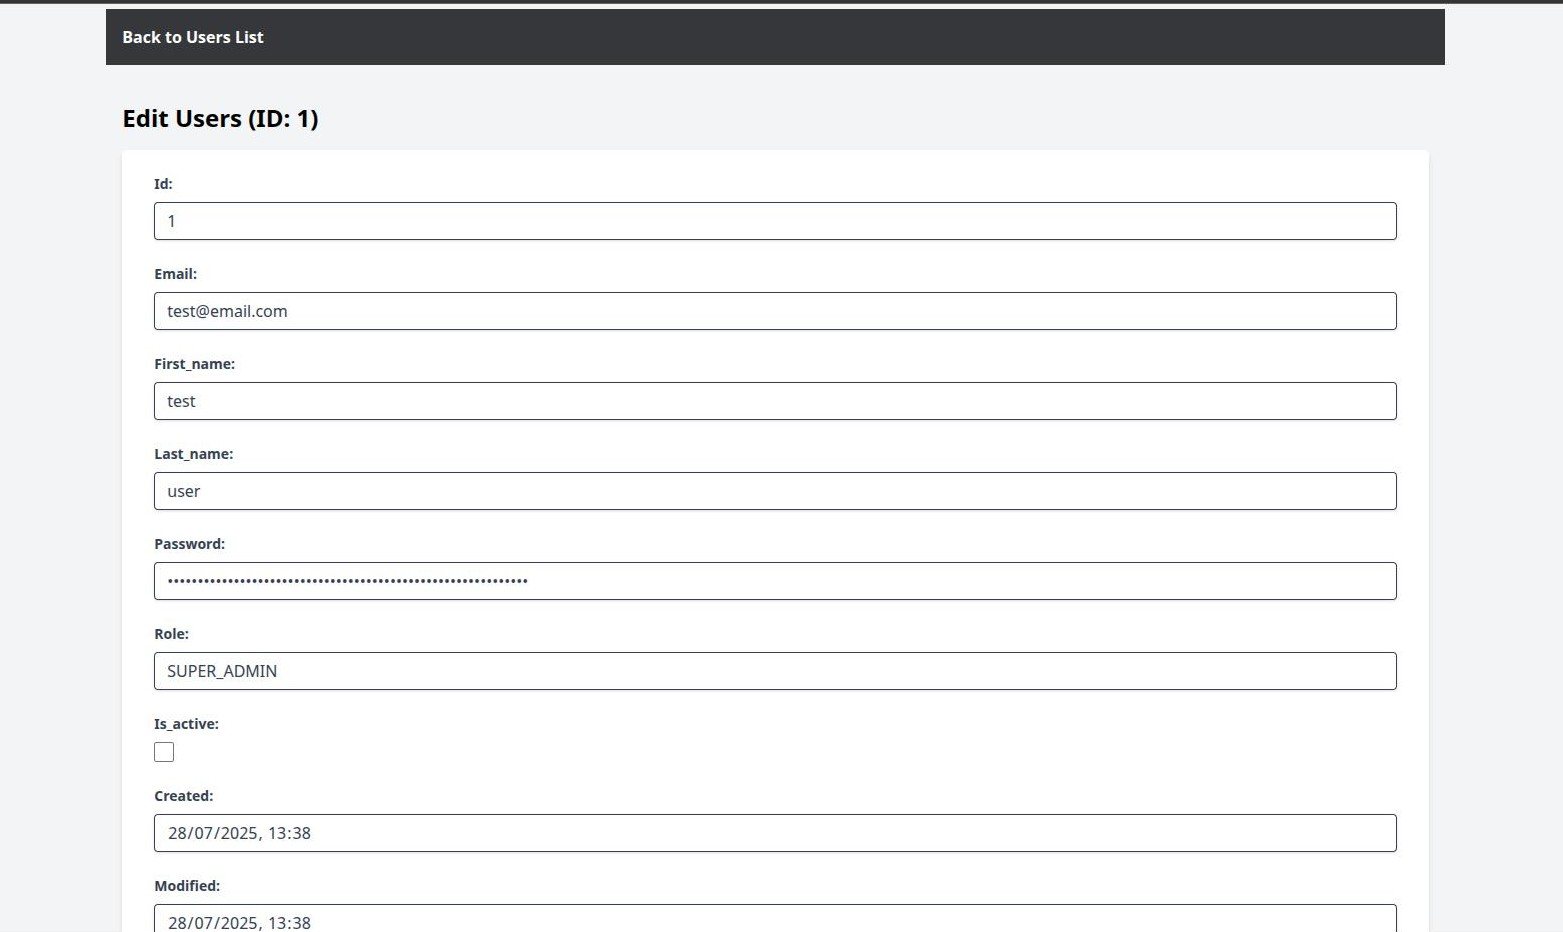
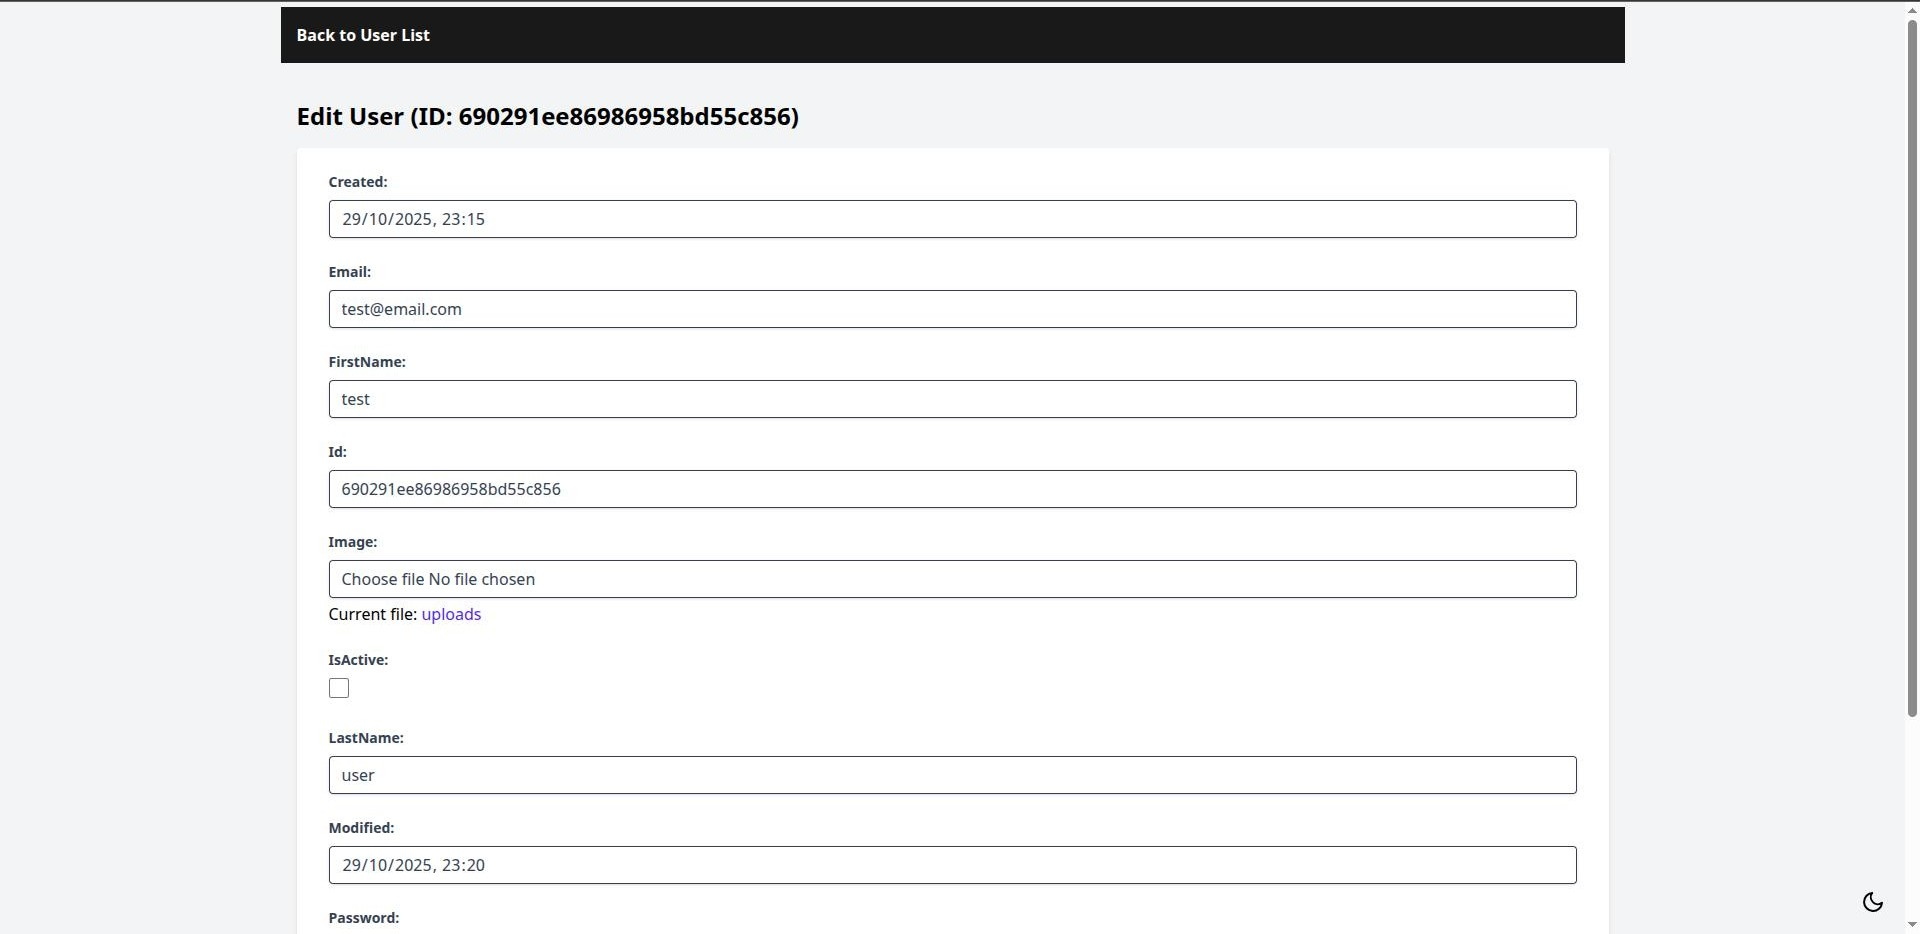
docs: update documentation

diff --git a/docs/installation.rst b/docs/installation.rst
@@ -23,7 +23,7 @@ The recommended way to install Ktor Panel is via Maven Central. This ensures you
 .. code:: kotlin
 
    dependencies {
-       implementation("xyz.daimones:ktor-panel:0.3.2")
+       implementation("xyz.daimones:ktor-panel:0.4.0")
    }
 
 **Maven:**
@@ -33,7 +33,7 @@ The recommended way to install Ktor Panel is via Maven Central. This ensures you
    <dependency>
        <groupId>xyz.daimones</groupId>
        <artifactId>ktor-panel</artifactId>
-       <version>0.3.2</version>
+       <version>0.4.0</version>
    </dependency>
 
 No additional repository configuration is needed; Maven Central is included by default.
@@ -43,14 +43,14 @@ Install from GitHub Release
 If you want the latest features or experimental builds, you can download binaries directly from GitHub Releases.
 
 1. Visit the `Releases <https://github.com/believemanasseh/ktor-panel/releases>`__ page.
-2. Download the desired JAR file (e.g., ``ktor-panel-0.3.2.jar``).
+2. Download the desired JAR file (e.g., ``ktor-panel-0.4.0.jar``).
 3. Place the JAR in your project's ``libs/`` directory.
 4. Add it as a local dependency:
 
 .. code:: kotlin
 
    dependencies {
-       implementation(files("libs/ktor-panel-0.3.2.jar"))
+       implementation(files("libs/ktor-panel-0.4.0.jar"))
    }
 
 Install from Source (Advanced)
@@ -77,7 +77,7 @@ Verifying Release Artifacts
 
 To ensure the integrity and authenticity of downloaded release files, each artifact is accompanied by a `.asc` signature file.
 
-1. Download both the artifact (e.g., `ktor-panel-0.3.2.jar`) and its `.asc` signature.
+1. Download both the artifact (e.g., `ktor-panel-0.4.0.jar`) and its `.asc` signature.
 2. Obtain the maintainer's public GPG key. The key ID and fingerprint are published below.
 3. Import the public key from a keyserver:
 
@@ -89,7 +89,7 @@ To ensure the integrity and authenticity of downloaded release files, each artif
 
    .. code-block:: bash
 
-      gpg --verify ktor-panel-0.3.2.jar.asc ktor-panel-0.3.2.jar
+      gpg --verify ktor-panel-0.4.0.jar.asc ktor-panel-0.4.0.jar
 
 If verification succeeds, the artifact is authentic and untampered.
 

diff --git a/docs/index.rst b/docs/index.rst
@@ -28,7 +28,7 @@ Gradle (Kotlin DSL)
 .. code:: kotlin
 
    dependencies {
-       implementation("xyz.daimones:ktor-panel:0.3.2")
+       implementation("xyz.daimones:ktor-panel:0.4.0")
    }
 
 Gradle (Groovy)
@@ -37,7 +37,7 @@ Gradle (Groovy)
 .. code:: groovy
 
    dependencies {
-       implementation 'xyz.daimones:ktor-panel:0.3.2'
+       implementation 'xyz.daimones:ktor-panel:0.4.0'
    }
 
 Maven
@@ -49,7 +49,7 @@ Maven
    <dependency>
        <groupId>xyz.daimones</groupId>
        <artifactId>ktor-panel</artifactId>
-       <version>0.3.2</version>
+       <version>0.4.0</version>
    </dependency>
 
 Quick Start

diff --git a/docs/dao.rst b/docs/dao.rst
@@ -17,7 +17,12 @@ The ``DataAccessObjectInterface`` defines the contract for custom DAOs. Here is 
 .. code:: kotlin
 
   interface DataAccessObjectInterface<T> {
-      suspend fun findById(id: Any): T?
+      suspend fun findById(id: castToEntityId: Boolean): T? {
+        throw NotImplementedError("This method is not implemented for this DAO.")
+      }
+      suspend fun findById(id: Any): T? {
+        throw NotImplementedError("This method is not implemented for this DAO.")
+      }
       suspend fun findAll(): List<T?>
       suspend fun find(username: String): T?
       suspend fun save(data: Map<String, Any>): T {

diff --git a/docs/screenshots.rst b/docs/screenshots.rst
@@ -3,6 +3,9 @@ Screenshots
 
 Below are screenshots of the Ktor Panel admin interface.
 
+Light Theme
+----------------
+
 .. image:: static/admin_list.jpg
    :alt: Admin List View
    :width: 600px
@@ -14,3 +17,18 @@ Below are screenshots of the Ktor Panel admin interface.
    :width: 600px
 
 *Admin Details View*
+
+Dark Theme
+----------------
+
+.. image:: static/admin_list_dark.jpg
+   :alt: Admin List View Dark Theme
+   :width: 600px
+
+*Admin List View Dark Theme*
+
+.. image:: static/admin_details_dark.jpg
+   :alt: Admin Details View Dark Theme
+   :width: 600px
+
+*Admin Details View Dark Theme*

diff --git a/docs/configuration.rst b/docs/configuration.rst
@@ -18,6 +18,7 @@ The ``Configuration`` class allows you to customise the admin panel:
 - ``customDeleteTemplate``: Path to a custom delete template (default is ``kt-panel-delete.hbs``).
 - ``favicon``: Path to a custom favicon (default is ``/static/favicon.ico``).
 - ``templateRenderer``: Custom template renderer (default is Mustache).
+- ``listFields``: List of fields to display in the list view. If null (by default), all fields will be shown.
 
 .. code-block:: kotlin
 

diff --git a/docs/usage.rst b/docs/usage.rst
@@ -32,7 +32,7 @@ Define your entities using Exposed's DSL and register them:
    fun Application.module() {
        val configuration = Configuration(setAuthentication = false)
        val admin = Admin(this, configuration, database)
-       admin.addView(EntityView(User::class))
+       admin.addView(EntityView(Users::class))
    }
 
 Hibernate (JPA)
